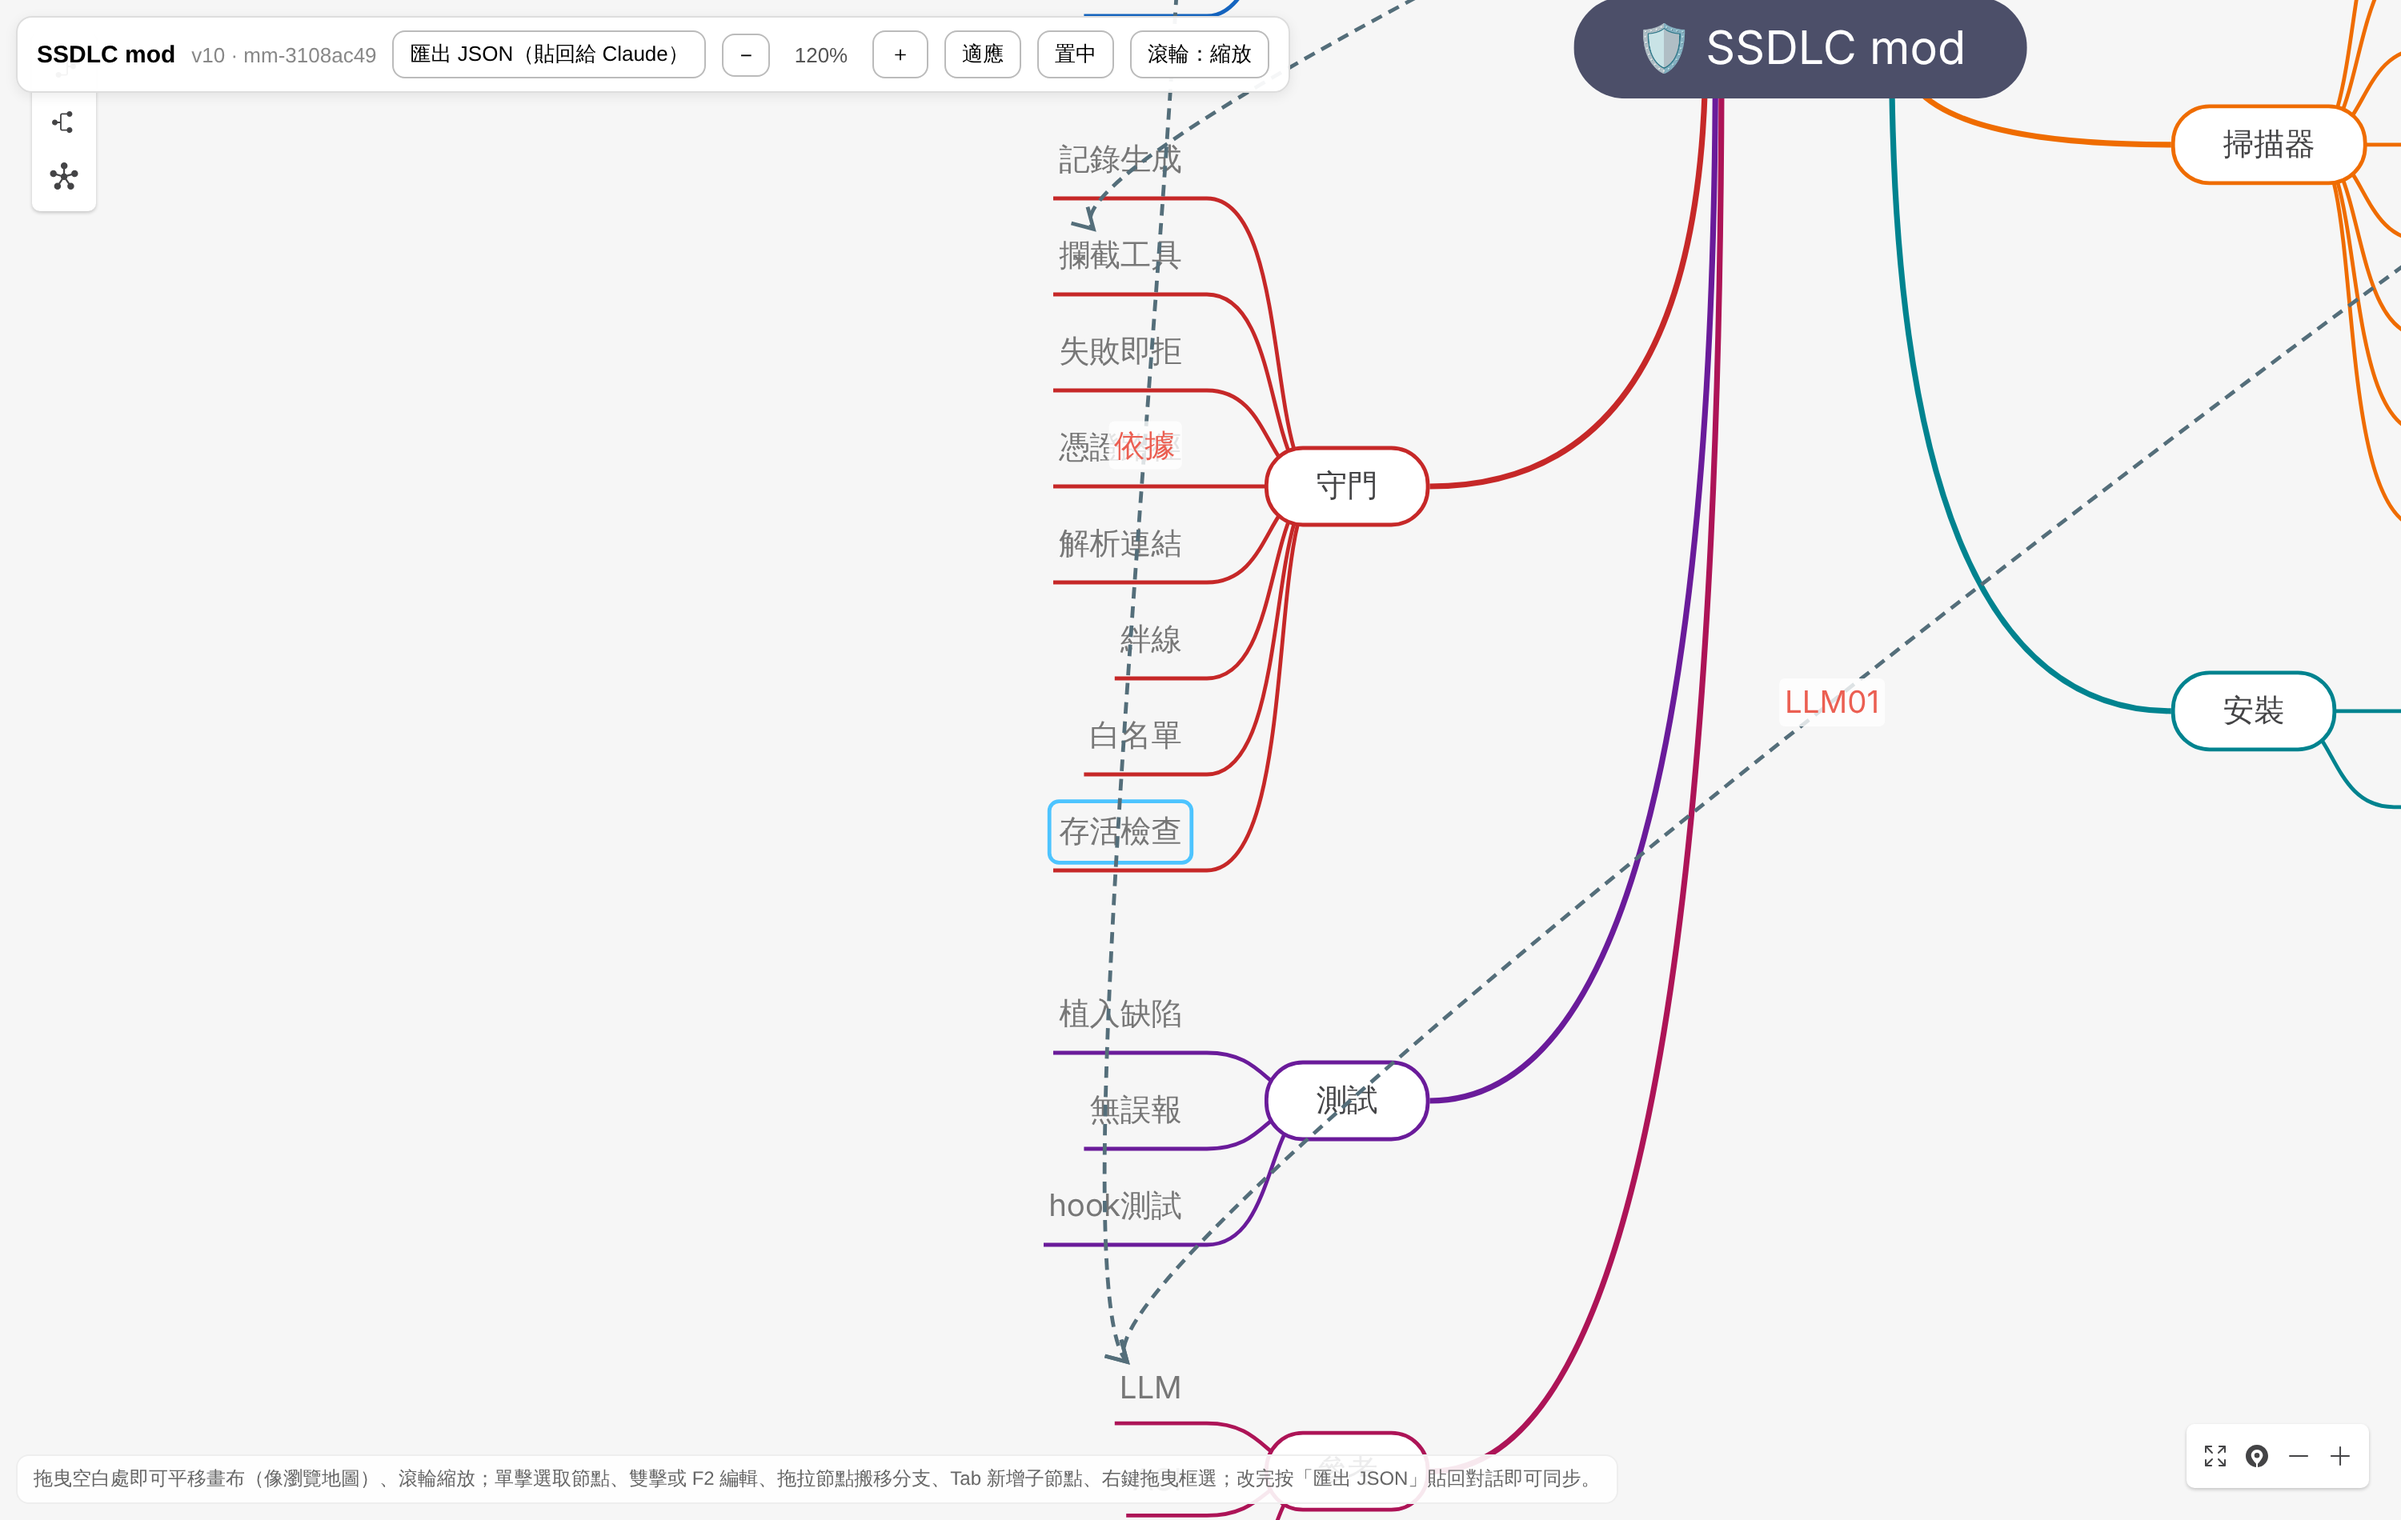
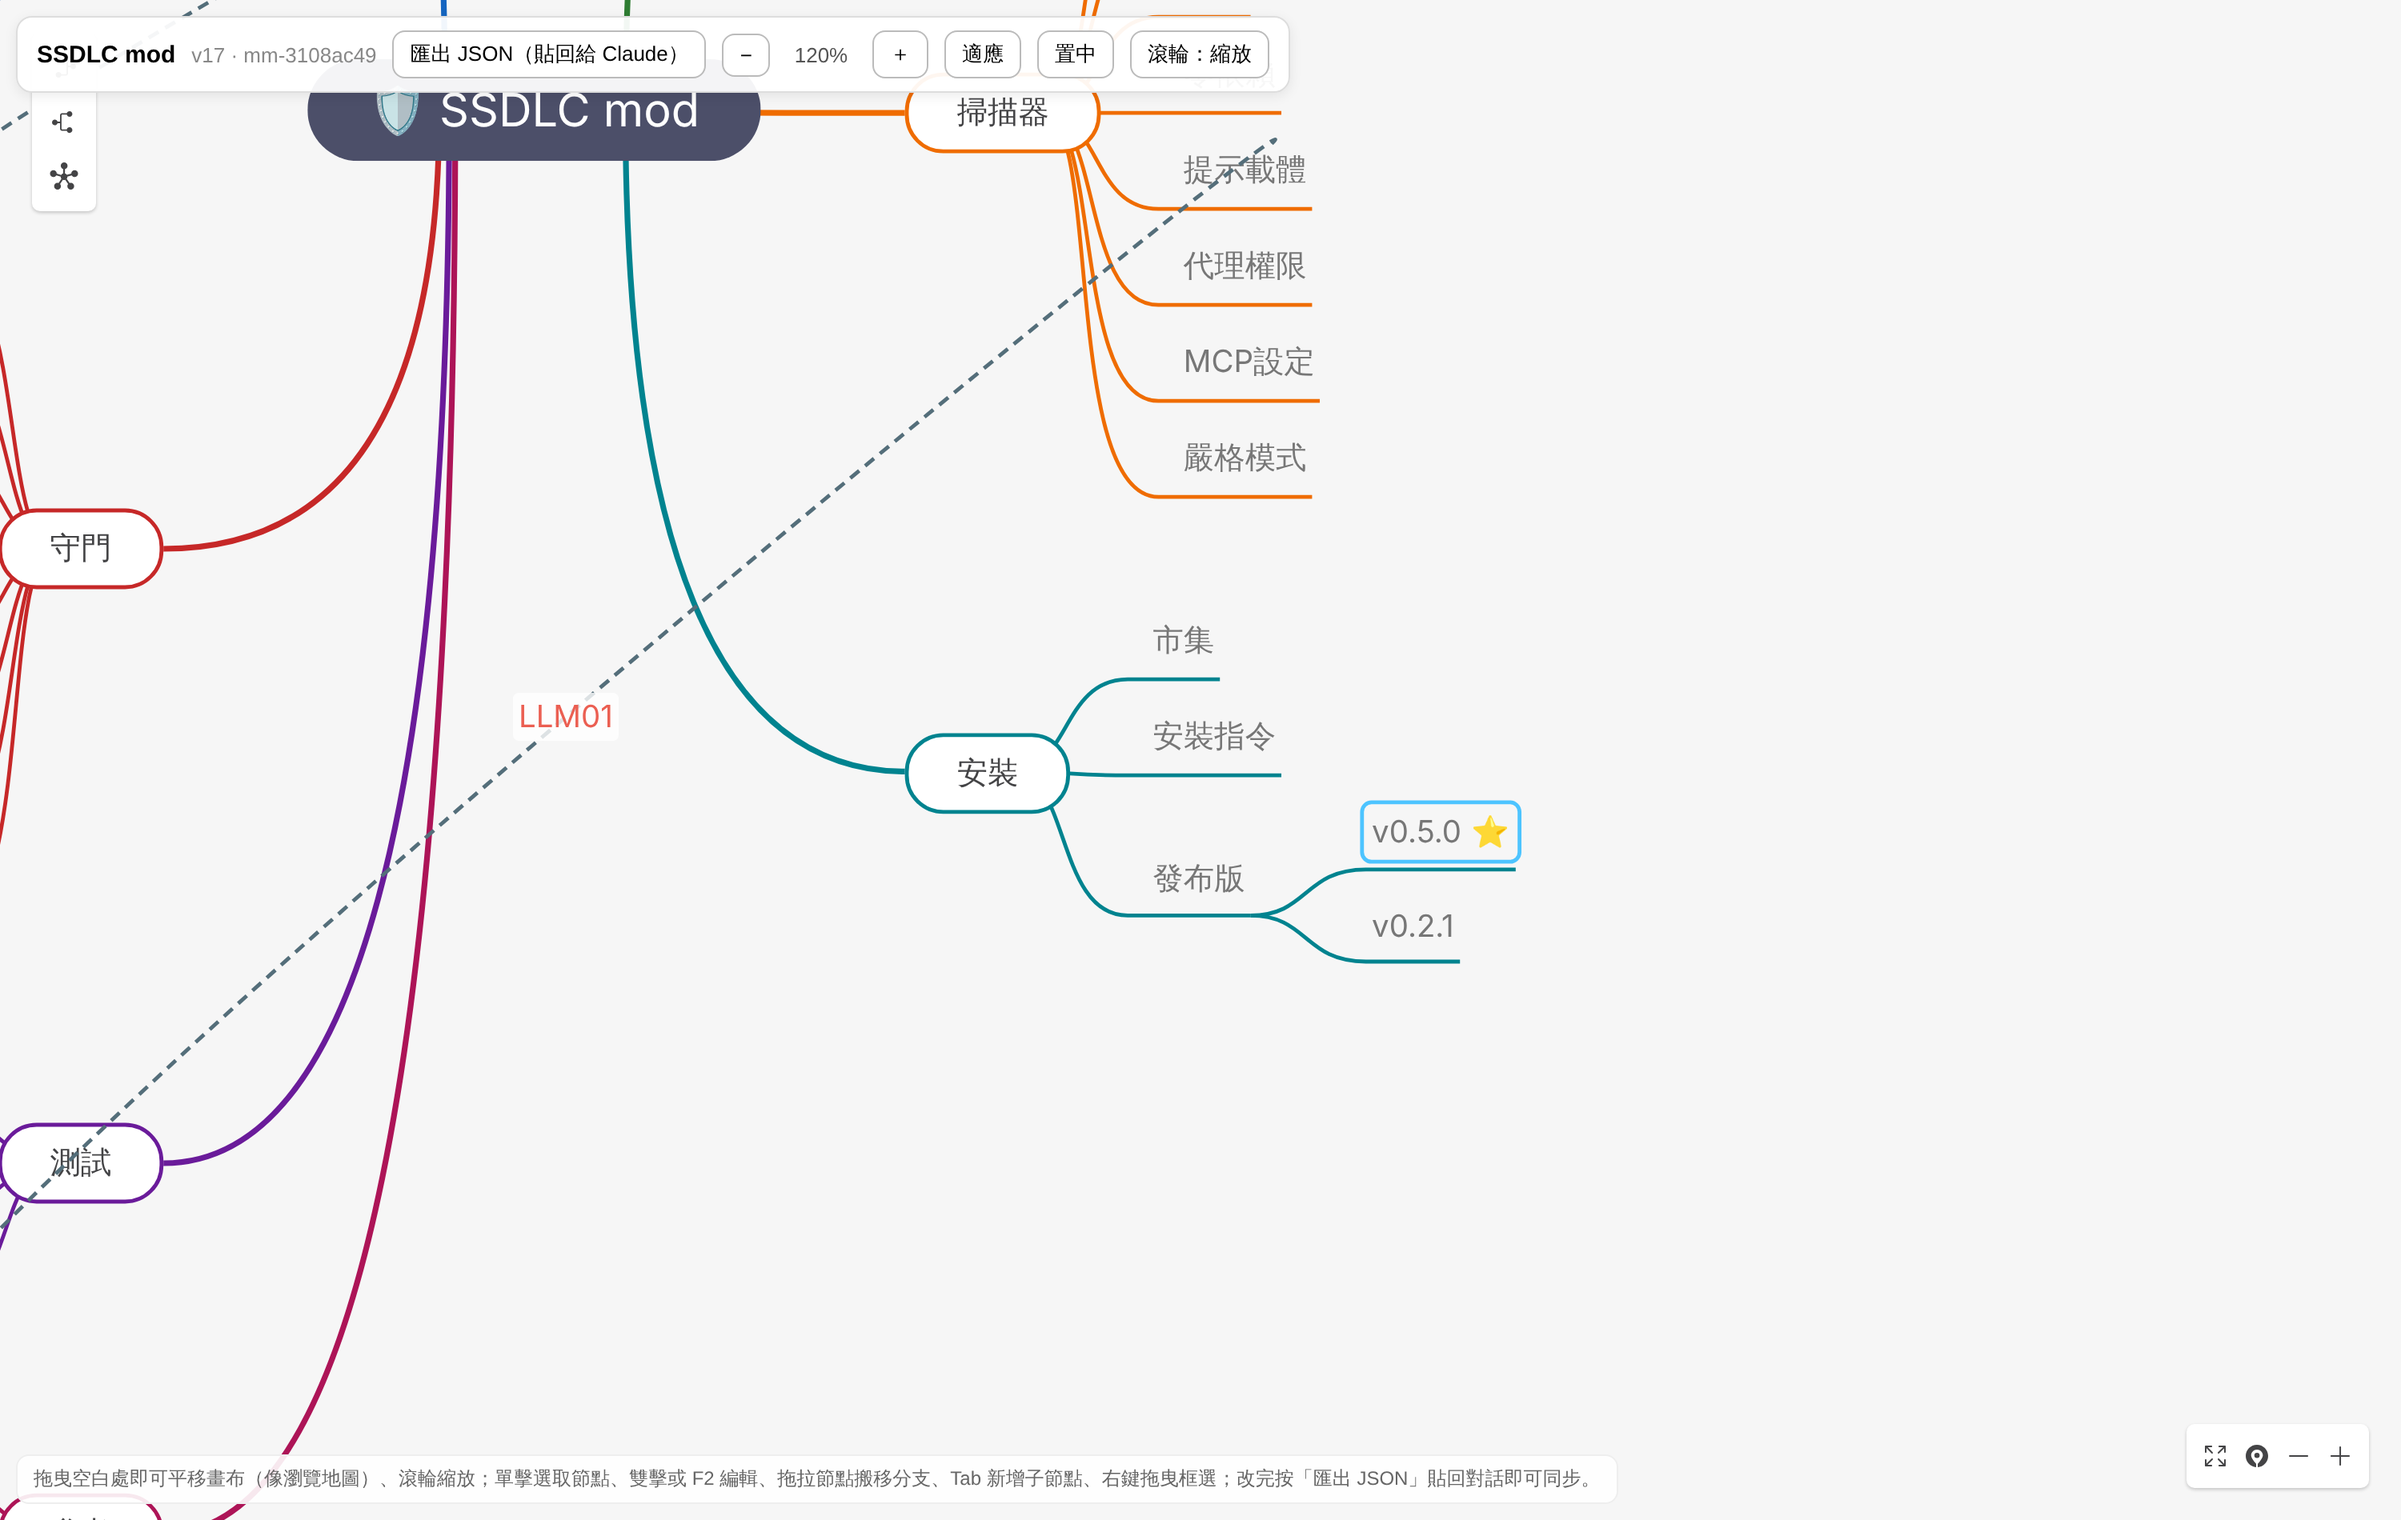
docs(manual): interactive mind map screenshot shows the new Releases node
Claude-Session: https://claude.ai/code/session_01R1ma2KKoemvTgjSD3ke2JF

diff --git a/docs/manual/README.en.md b/docs/manual/README.en.md
@@ -50,7 +50,7 @@ How it differs from an ordinary linter:
 
 ![Mind map of how ssdlc works (v0.5.0)](../ssdlc-mindmap.en.png)
 
-**The interactive version** (open `docs/ssdlc-mindmap.en.html` in a browser; the toolbar and hint text are Chinese) lets you drag to pan, zoom with the scroll wheel or toolbar, click to select a node, double-click or press F2 to edit text, drag a node to move a branch, and press Tab to add a child node. When you are done, click "匯出 JSON（貼回給 Claude）" ("Export JSON (paste back to Claude)") and paste the result back into the conversation to sync it to the mind map's state file. The image below shows the view zoomed to 120% with the "Liveness check" node selected:
+**The interactive version** (open `docs/ssdlc-mindmap.en.html` in a browser; the toolbar and hint text are Chinese) lets you drag to pan, zoom with the scroll wheel or toolbar, click to select a node, double-click or press F2 to edit text, drag a node to move a branch, and press Tab to add a child node. When you are done, click "匯出 JSON（貼回給 Claude）" ("Export JSON (paste back to Claude)") and paste the result back into the conversation to sync it to the mind map's state file. The image below shows the view zoomed to 120% with the "Install → Releases → v0.5.0" node selected:
 
 ![Interactive mind map: zoomed in with a node selected](img/mindmap-interactive.en.png)
 

diff --git a/docs/manual/README.md b/docs/manual/README.md
@@ -50,7 +50,7 @@ ssdlc 是一個 **Claude Code 外掛（plugin）**，把安全軟體開發生命
 
 ![ssdlc 運作方式心智圖（v0.5.0）](../ssdlc-mindmap.png)
 
-**互動版**（用瀏覽器開啟 `docs/ssdlc-mindmap.html`）可以拖曳平移、滾輪或工具列縮放、單擊選取節點、雙擊或 F2 編輯文字、拖拉節點搬移分支、Tab 新增子節點；改完按「匯出 JSON（貼回給 Claude）」，貼回對話即可同步到心智圖狀態檔。下圖為放大到 120%、選取「存活檢查」節點的畫面：
+**互動版**（用瀏覽器開啟 `docs/ssdlc-mindmap.html`）可以拖曳平移、滾輪或工具列縮放、單擊選取節點、雙擊或 F2 編輯文字、拖拉節點搬移分支、Tab 新增子節點；改完按「匯出 JSON（貼回給 Claude）」，貼回對話即可同步到心智圖狀態檔。下圖為放大到 120%、選取「安裝 → 發布版 → v0.5.0」節點的畫面：
 
 ![互動版心智圖：放大並選取節點](img/mindmap-interactive.png)
 
